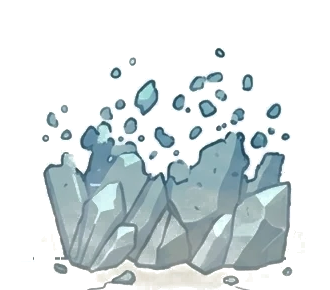
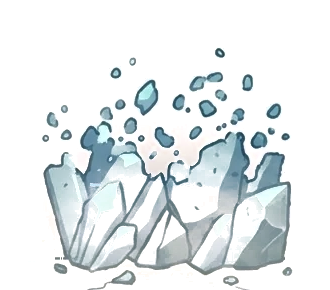
방벽 조각이 금 갔다 복구되던 문제 수정 (베타 1.078)
Claude-Session: https://claude.ai/code/session_01EFTEodMUbbTSUTixRFZg7z

Changed region(s): [[0.1515, 0.4655, 0.8788, 0.9931], [0.2727, 0.4345, 0.3333, 0.4966], [0.7273, 0.9931, 0.7576, 1.0]]

diff --git a/client/src/main.ts b/client/src/main.ts
@@ -2211,7 +2211,7 @@ async function main() {
       if (seg3 || wallSegTex.every((row) => row.every((t) => t !== null))) {
         // 수정 조각을 방벽 선을 따라 세운다(회전 없음). 내구도에 따라 온전함 / 금이 감 / 거의 부서짐 조각으로 바뀐다.
         wallSeen.add(wid);
-        const state = hpPct > 60 ? 0 : hpPct > 25 ? 1 : 2;
+        const state = wallRiseTex.every((t) => t !== null) && wallFadeTex.every((t) => t !== null) ? 0 : hpPct > 60 ? 0 : hpPct > 25 ? 1 : 2; // 생성·소멸 그림이 있으면 금 간 모습 없이 온전한 조각만 쓴다
         const step = seg3 ? WALL_SEG3_STEP : WALL_PIECE_STEP;
         const n = Math.max(2, Math.ceil((2 * hl) / step) + 1);
         let pcs = wallPieces.get(wid);
